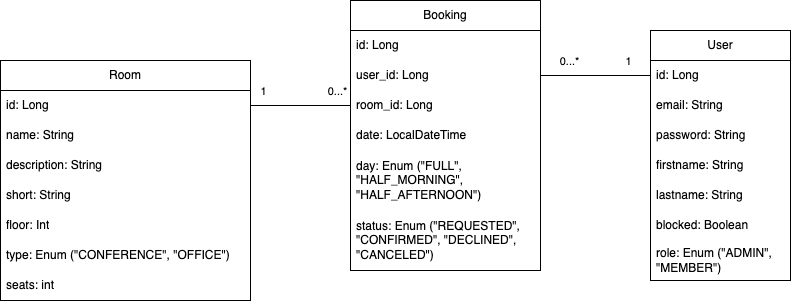
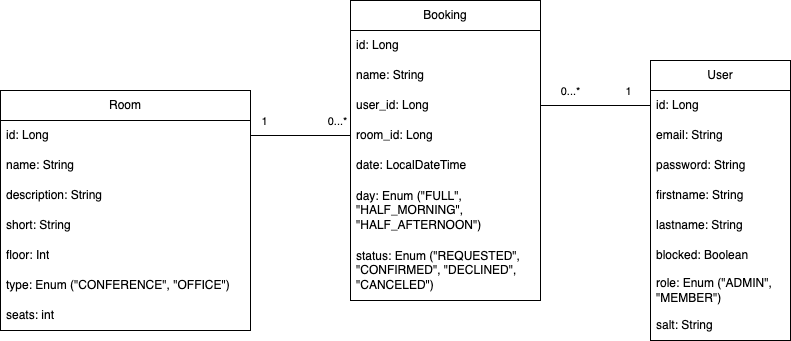
updated README

diff --git a/README.md b/README.md
@@ -167,24 +167,6 @@ Schnittstellenplanung von Coworking System API
       </td>
     </tr>
     <tr>
-      <td>PATCH</td>
-      <td>/rooms/{id}</td>
-      <td>
-        <p>Erfolge:</p>
-        <ul>
-          <li>200 Raum aktualisiert</li>
-        </ul>
-        <p>Fehlerfall:</p>
-        <ul>
-          <li>400 Bad Request</li>
-          <li>401 Unauthorized</li>
-          <li>403 Forbidden</li>
-          <li>404 Not Found</li>
-          <li>500 Internal Server Error</li>
-        </ul>
-      </td>
-    </tr>
-    <tr>
       <td>DELETE</td>
       <td>/rooms/{id}</td>
       <td>
@@ -257,24 +239,6 @@ Schnittstellenplanung von Coworking System API
     </tr>
     <tr>
       <td>PUT</td>
-      <td>/bookings/{id}</td>
-      <td>
-        <p>Erfolge:</p>
-        <ul>
-          <li>200 Buchung aktualisiert</li>
-        </ul>
-        <p>Fehlerfall:</p>
-        <ul>
-          <li>400 Bad Request</li>
-          <li>401 Unauthorized</li>
-          <li>403 Forbidden</li>
-          <li>404 Not Found</li>
-          <li>500 Internal Server Error</li>
-        </ul>
-      </td>
-    </tr>
-    <tr>
-      <td>PATCH</td>
       <td>/bookings/{id}</td>
       <td>
         <p>Erfolge:</p>
@@ -409,24 +373,6 @@ Schnittstellenplanung von Coworking System API
       </td>
     </tr>
     <tr>
-      <td>PATCH</td>
-      <td>/users/{id}</td>
-      <td>
-        <p>Erfolge:</p>
-        <ul>
-          <li>200 Benutzer aktualisiert</li>
-        </ul>
-        <p>Fehlerfall:</p>
-        <ul>
-          <li>400 Bad Request</li>
-          <li>401 Unauthorized</li>
-          <li>403 Forbidden</li>
-          <li>404 Not Found</li>
-          <li>500 Internal Server Error</li>
-        </ul>
-      </td>
-    </tr>
-    <tr>
       <td>DELETE</td>
       <td>/users/{id}</td>
       <td>
@@ -453,4 +399,24 @@ Schnittstellenplanung von Coworking System API
 
 ## Testdaten
 
-TODO
+```java
+	String salt = BCrypt.gensalt();
+	CoworkingUser u1 = new CoworkingUser("ael@banyard.ch", BCrypt.hashpw("123", salt), "ael", "banyard", false, Roles.ADMIN, salt);
+	CoworkingUser u2 = new CoworkingUser("en.lueber@gmail.com", BCrypt.hashpw("123", salt), "evan", "lueber", false, Roles.MEMBERsalt);
+
+
+	Room r1 = new Room("Room 1", "First Floor Room 1", "101", 1  , RoomType.CONFERENCE_ROOM, 20);
+	Room r2 = new Room("Room 2", "First Floor Room 2", "102", 1  , RoomType.WORKSPACE, 3);
+	Room r3 = new Room("Room 3", "First Floor Room 3", "103", 1  , RoomType.MEETING_ROOM, 10);
+	Room r4 = new Room("Room 4", "Second Floor Room 1", "201", 2  , RoomType.WORKSPACE, 3);
+
+
+	Booking b1 = new Booking(Date.valueOf("2024-10-11"), Day.HALF_DAY_MORNING, Status.REQUESTED, u1, r1, "ael1");
+	Booking b2 = new Booking(Date.valueOf("2024-10-11"), Day.HALF_DAY_AFTERNOON, Status.REQUESTED, u2, r2, "evan1");
+	Booking b3 = new Booking(Date.valueOf("2024-10-11"), Day.FUll_DAY, Status.REQUESTED, u1, r3, "ael2");
+	Booking b4 = new Booking(Date.valueOf("2024-10-11"), Day.FUll_DAY, Status.REQUESTED, u2, r4, "evan2");
+```
+
+
+## Reflektion
+Das Projekt war eine gute Gelegenheit, um die Konzepte von Spring Boot und Spring Security zu vertiefen. Es war auch eine gute Gelegenheit, um die Verwendung von Docker und Docker Compose für die Bereitstellung von Anwendungen zu üben. Die Implementierung der REST-API und die Verwendung von JWT-Token für die Authentifizierung und Autorisierung waren besonders lehrreich. Insgesamt war es eine lohnende Erfahrung, die mir half, meine Fähigkeiten in der Entwicklung von Webanwendungen zu verbessern.
